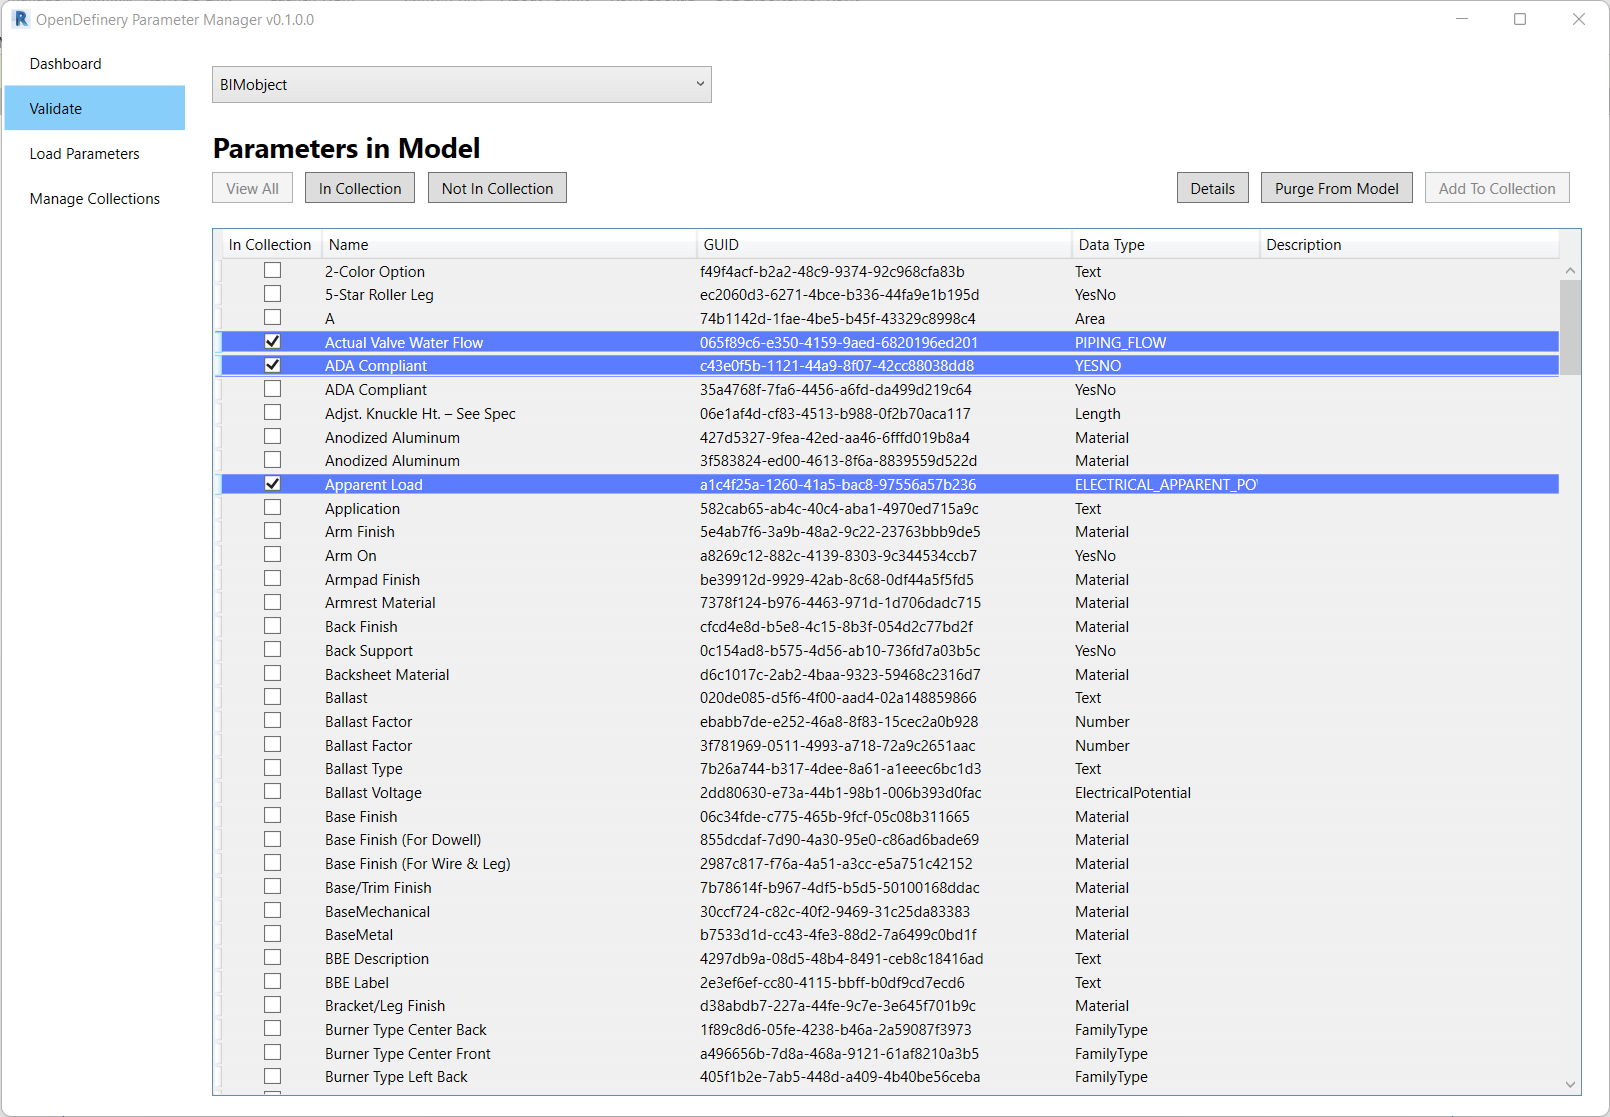
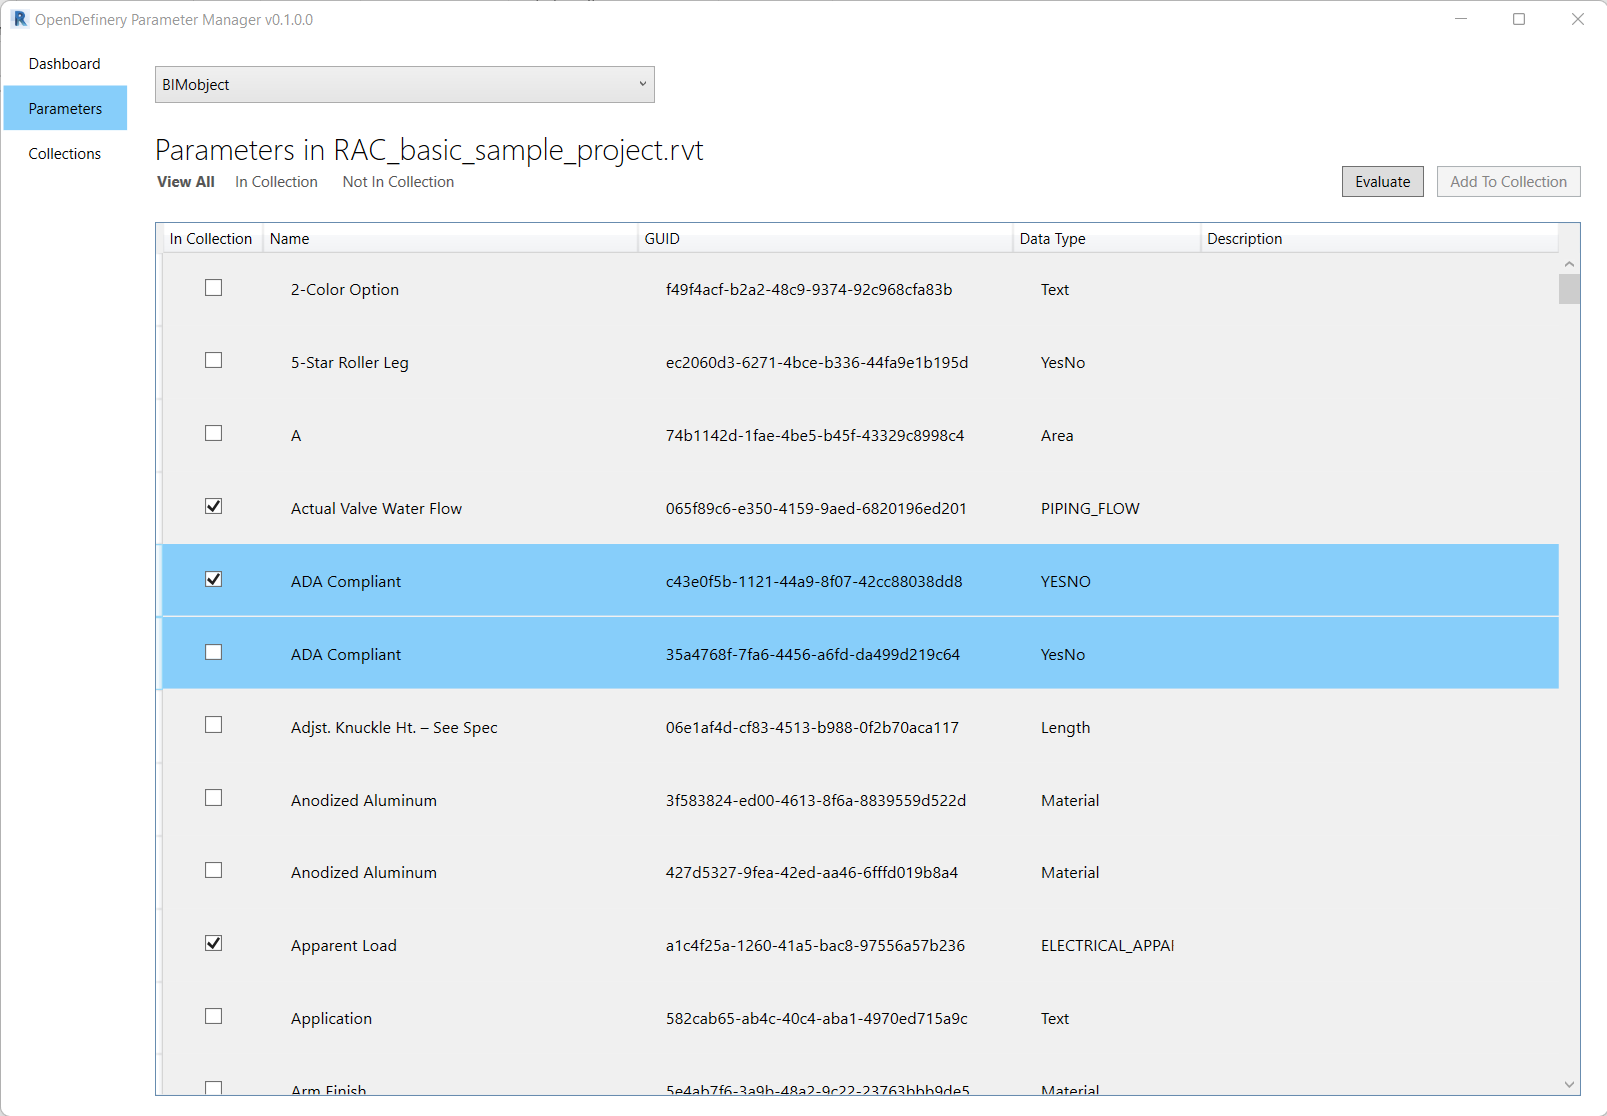
UI improvements

diff --git a/OD-ParamManager/Window-ParamManager.xaml b/OD-ParamManager/Window-ParamManager.xaml
@@ -10,6 +10,37 @@
             WindowStartupLocation="CenterScreen"
             Title="OpenDefinery | Parameter Manager">
 
+    <Window.Resources>
+        <Style BasedOn="{StaticResource {x:Type Button}}" TargetType="{x:Type Button}" x:Key="FilterButton">
+            <Style.Setters>
+                <Setter Property="Background" Value="Transparent"/>
+                <Setter Property="Foreground" Value="#555555"/>
+                <Setter Property="BorderThickness" Value="0"/>
+                <Setter Property="Template">
+                    <Setter.Value>
+                        <ControlTemplate TargetType="{x:Type Button}">
+                            <Grid Background="{TemplateBinding Background}">
+                                <ContentPresenter x:Name="ButtonPresenter" 
+                                          Content="{TemplateBinding Content}"
+                                          HorizontalAlignment="Center" 
+                                          VerticalAlignment="Center" />
+                            </Grid>
+                        </ControlTemplate>
+                    </Setter.Value>
+                </Setter>
+            </Style.Setters>
+            <Style.Triggers>
+                <Trigger Property="IsEnabled" Value="False">
+                    <Setter Property="Background" Value="Transparent"/>
+                    <Setter Property="FontWeight" Value="Bold"/>
+                </Trigger>
+                <Trigger Property="IsMouseOver" Value="True">
+                    <Setter Property="FontWeight" Value="Bold"/>
+                </Trigger>
+            </Style.Triggers>
+        </Style>
+    </Window.Resources>
+
     <Grid>
         <TabControl Margin="0" TabStripPlacement="Left" BorderThickness="0" Background="{x:Null}">
 
@@ -68,12 +99,12 @@
                         VerticalContentAlignment="Center"
                         />
                         </DockPanel>
-                        <Grid Height="70" VerticalAlignment="Top" DockPanel.Dock="Top" Margin="20,0">
+                        <Grid Height="55" VerticalAlignment="Top" DockPanel.Dock="Top" Margin="20,0">
                             <TextBlock x:Name="TextBlock_ParamsTitle" HorizontalAlignment="Left" Margin="0" TextWrapping="Wrap" Text="Parameters in Model" VerticalAlignment="Top" FontSize="24" FontWeight="Light"/>
                             <DockPanel Height="25" Margin="0,0,0,0" VerticalAlignment="Bottom">
-                                <Button x:Name="Button_FilterAll" Content="View All" HorizontalAlignment="Left" VerticalAlignment="Center" Height="25" Padding="10,0" Margin="0,0,10,0" Click="Button_FilterAll_Click"/>
-                                <Button x:Name="Button_FilterInCollection" Content="In Collection" HorizontalAlignment="Left" VerticalAlignment="Top" Height="25" Padding="10,0" Margin="0,0,10,-0.2" Click="Button_FilterInCollection_Click"/>
-                                <Button x:Name="Button_FilterNotInCollection" Content="Not In Collection" HorizontalAlignment="Left" VerticalAlignment="Center" Height="25" Padding="10,0" Margin="0,0,10,0" Click="Button_FilterNotInCollection_Click"/>
+                                <Button Style="{StaticResource FilterButton}" x:Name="Button_FilterAll" Content="View All" HorizontalAlignment="Left" VerticalAlignment="Center" Height="25" Padding="10,0" Margin="0,0,10,0" Click="Button_FilterAll_Click" IsEnabled="False" Width="50"/>
+                                <Button Style="{StaticResource FilterButton}" x:Name="Button_FilterInCollection" Content="In Collection" HorizontalAlignment="Left" VerticalAlignment="Top" Height="25" Padding="10,0" Margin="0,0,10,-0.2" Click="Button_FilterInCollection_Click" Width="75"/>
+                                <Button Style="{StaticResource FilterButton}" x:Name="Button_FilterNotInCollection" Content="Not In Collection" HorizontalAlignment="Left" VerticalAlignment="Center" Height="25" Padding="10,0" Margin="0,0,10,0" Click="Button_FilterNotInCollection_Click" Width="100"/>
                                 <Button 
                                     x:Name="Button_AddToCollection" 
                                     Content="Add To Collection" 
@@ -84,15 +115,6 @@
                                     HorizontalAlignment="Right" 
                                     Height="25"/>
                                 <Button 
-                                    x:Name="Button_Purge" 
-                                    Content="Purge From Model" 
-                                    Margin="10,0,0,0" 
-                                    Padding="10,3"
-                                    DockPanel.Dock="Right" 
-                                    HorizontalAlignment="Right" 
-                                    Height="25" 
-                                    Click="Button_Purge_Click"/>
-                                <Button 
                                     x:Name="Button_Details" 
                                     Content="Evaluate" 
                                     Margin="10,0,0,0" 
@@ -100,44 +122,64 @@
                                     DockPanel.Dock="Right" 
                                     HorizontalAlignment="Right" 
                                     Height="25" 
-                                    Click="Button_Details_Click"/>
+                                    Click="Button_Evaluate_Click"/>
                             </DockPanel>
                         </Grid>
                         <DataGrid 
-                    x:Name="DataGrid_Main" 
-                    Margin="20,20,20,14" 
-                    AutoGenerateColumns="False" 
-                    GridLinesVisibility="Horizontal"
-                    HorizontalGridLinesBrush="#F1F1F1"
-                    SelectionMode="Extended"
-                    DockPanel.Dock="Top"
-                    HorizontalScrollBarVisibility="Disabled"
-                    ItemsSource="{Binding}" SelectionChanged="DataGrid_Main_SelectionChanged"
-                    >
+                            x:Name="DataGrid_Main" 
+                            Margin="20,20,20,14" 
+                            AutoGenerateColumns="False" 
+                            GridLinesVisibility="Horizontal"
+                            HorizontalGridLinesBrush="#F1F1F1"
+                            SelectionMode="Extended"
+                            DockPanel.Dock="Top"
+                            HorizontalScrollBarVisibility="Disabled"
+                            ItemsSource="{Binding}" 
+                            SelectionChanged="DataGrid_Main_SelectionChanged"
+                            >
                             <DataGrid.RowStyle>
                                 <Style TargetType="{x:Type DataGridRow}">
+                                    <Style.Resources>
+                                        <SolidColorBrush x:Key="{x:Static SystemColors.HighlightBrushKey}" Color="Transparent" />
+                                        <SolidColorBrush x:Key="{x:Static SystemColors.ControlBrushKey}" Color="Transparent" />
+                                        <SolidColorBrush x:Key="{x:Static SystemColors.HighlightTextBrushKey}" Color="Black" />
+                                        <SolidColorBrush x:Key="{x:Static SystemColors.ControlTextBrushKey}" Color="Black" />
+                                    </Style.Resources>
+                                    <Setter Property="FontSize" Value="13"/>
                                     <Setter Property="Background" Value="Transparent" />
-                                    <Setter Property="BorderThickness" Value="1"/>
+                                    <Setter Property="BorderThickness" Value="0"/>
                                     <Style.Triggers>
                                         <Trigger Property="IsSelected" Value="True">
-                                            <Setter Property="Background" Value="#5b7cfe"/>
+                                            <Setter Property="Background" Value="LightSkyBlue"/>
+                                            <Setter Property="Foreground" Value="White"/>
                                         </Trigger>
+                                        <Trigger Property="IsMouseOver" Value="True">
+                                            <Setter Property="Background" Value="LightGray"/>
+                                        </Trigger>
+                                        <MultiTrigger>
+                                            <MultiTrigger.Conditions>
+                                                <Condition Property="IsSelected" Value="True" />
+                                                <Condition Property="IsMouseOver" Value="True" />
+                                            </MultiTrigger.Conditions>
+                                            <MultiTrigger.Setters>
+                                                <Setter Property="Background" Value="LightSkyBlue" />
+                                                <Setter Property="Foreground" Value="White"/>
+                                            </MultiTrigger.Setters>
+                                        </MultiTrigger>
                                     </Style.Triggers>
                                 </Style>
                             </DataGrid.RowStyle>
                             <DataGrid.CellStyle>
                                 <Style TargetType="{x:Type DataGridCell}">
-                                    <Setter Property="VerticalContentAlignment" Value="Bottom"/>
-                                    <Setter Property="Padding" Value="0"/>
-                                    <Setter Property="VerticalContentAlignment" Value="Stretch"/>
+                                    <Setter Property="Padding" Value="20"/>
                                     <Setter Property="Template">
                                         <Setter.Value>
                                             <ControlTemplate TargetType="{x:Type DataGridCell}">
-                                                <Border 
-                                            Padding="{TemplateBinding Padding}" 
-                                            BorderBrush="{TemplateBinding BorderBrush}" 
-                                            BorderThickness="{TemplateBinding BorderThickness}" 
-                                            SnapsToDevicePixels="True">
+                                                <Border Padding="{TemplateBinding Padding}" 
+                                                        BorderBrush="{TemplateBinding BorderBrush}" 
+                                                        BorderThickness="{TemplateBinding BorderThickness}" 
+                                                        Background="{TemplateBinding Background}" 
+                                                        SnapsToDevicePixels="True">
                                                     <ContentPresenter SnapsToDevicePixels="{TemplateBinding SnapsToDevicePixels}"/>
                                                 </Border>
                                             </ControlTemplate>
@@ -145,11 +187,6 @@
                                     </Setter>
                                     <Setter Property="BorderThickness" Value="0"/>
                                     <Setter Property="FocusVisualStyle" Value="{x:Null}"/>
-                                    <Style.Triggers>
-                                        <Trigger Property="IsSelected" Value="True">
-                                            <Setter Property="Foreground" Value="#FFFFFF"/>
-                                        </Trigger>
-                                    </Style.Triggers>
                                 </Style>
                             </DataGrid.CellStyle>
                             <DataGrid.Columns>

diff --git a/OD-ParamManager/Window-ParamManager.xaml.cs b/OD-ParamManager/Window-ParamManager.xaml.cs
@@ -54,7 +54,7 @@ namespace OD_ParamManager
             Definery = new Definery();
 
             // Set data passed from the Revit command
-            RefreshRevitParams();
+            RefreshRevitParams(Definery);
 
             // Update the UI
             Title = "OpenDefinery Parameter Manager" + " v" + Assembly.GetExecutingAssembly().GetName().Version.ToString();
@@ -274,9 +274,9 @@ namespace OD_ParamManager
         /// <summary>
         /// Retrieve Shared Parameters from Revit model
         /// </summary>
-        /// <param name="doc">The Revit Document</param>
+        /// <param name="definery">The main Definery object</param>
         /// <returns></returns>
-        private void RefreshRevitParams()
+        private void RefreshRevitParams(Definery definery)
         {
             // Instantiate a list to store the shared parameters from the current Revit model
             var revitParams = new List<SharedParameter>();
@@ -307,10 +307,10 @@ namespace OD_ParamManager
                 revitParams.Add(castedParam);
             }
 
-            RevitParameters = revitParams;
+            definery.RevitParameters = revitParams;
 
             // Show the Parameters on the UI
-            DataGrid_Main.ItemsSource = RevitParameters;
+            DataGrid_Main.ItemsSource = definery.RevitParameters;
             InitCollectionView();
         }
 
@@ -478,38 +478,11 @@ namespace OD_ParamManager
         }
 
         /// <summary>
-        /// User clicks the Purge button
-        /// </summary>
-        /// <param name="sender"></param>
-        /// <param name="e"></param>
-        private void Button_Purge_Click(object sender, RoutedEventArgs e)
-        {
-            // Retrieve selected items and cast to Paramaters
-            if (DataGrid_Main.SelectedItems.Count > 0)
-            {
-                var parameters = new List<SharedParameter>();
-
-                foreach (var i in DataGrid_Main.SelectedItems)
-                {
-                    var sharedParam = i as SharedParameter;
-
-                    if (sharedParam.ElementId != 0)
-                    {
-                        parameters.Add(sharedParam);
-                    }
-                }
-
-                // Delete the Parameters from the model
-                Command.PurgeParameters(this, RvtConnector.Document, parameters);
-            }
-        }
-
-        /// <summary>
         /// User clicks the Details button
         /// </summary>
         /// <param name="sender"></param>
         /// <param name="e"></param>
-        private void Button_Details_Click(object sender, RoutedEventArgs e)
+        private void Button_Evaluate_Click(object sender, RoutedEventArgs e)
         {
             if (DataGrid_Main.SelectedItems.Count > 0)
             {
@@ -643,8 +616,9 @@ namespace OD_ParamManager
                         tdConfirmation.Show();
 
                         // Load all of the things to the main Definery object
-                        RefreshRevitParams();
+                        RefreshRevitParams(Definery);
 
+                        // Switch back to the Main Window
                         Activate();
                     }
                     // Switch back to the main window
@@ -652,7 +626,6 @@ namespace OD_ParamManager
                     {
                         Activate();
                     }
-
                 }
             }
         }

diff --git a/OD-ParamManager/Command.cs b/OD-ParamManager/Command.cs
@@ -36,7 +36,7 @@ namespace OD_ParamManager
         /// <param name="mw">The Window instance to pass make active after purging</param>
         /// <param name="doc">The current Revit Document</param>
         /// <param name="paramsToDelete">The list of OpenDefinery Shared Parameters to delete</param>
-        public static void PurgeParameters(Window_ParamManager mw, Document doc, List<SharedParameter> paramsToDelete)
+        public static bool PurgeParameters(Window_ParamManager mw, Document doc, List<SharedParameter> paramsToDelete)
         {
             // Instantiate a collection of parameters to delete from the model
             ICollection<ElementId> elementIds = new List<ElementId>();
@@ -92,12 +92,16 @@ namespace OD_ParamManager
 
                     trans.Commit();
 
-                    mw.Activate();
+                    return true;
                 }
-                else   // Do nothing
+                else
                 {
-                    mw.Activate();
+                    return false;
                 }
+            }
+            else
+            {
+                return false;
             }
         }
 

diff --git a/OD-ParamManager/RvtConnector.cs b/OD-ParamManager/RvtConnector.cs
@@ -20,6 +20,11 @@ namespace OD_ParamManager
             FamilyInstances = GetFamilyInstances(Document);
         }
 
+        /// <summary>
+        /// Retrieve family instances from the current Revit Document
+        /// </summary>
+        /// <param name="doc"></param>
+        /// <returns></returns>
         static FilteredElementCollector GetFamilyInstances(Document doc)
         {
             // Set all Family Instances
